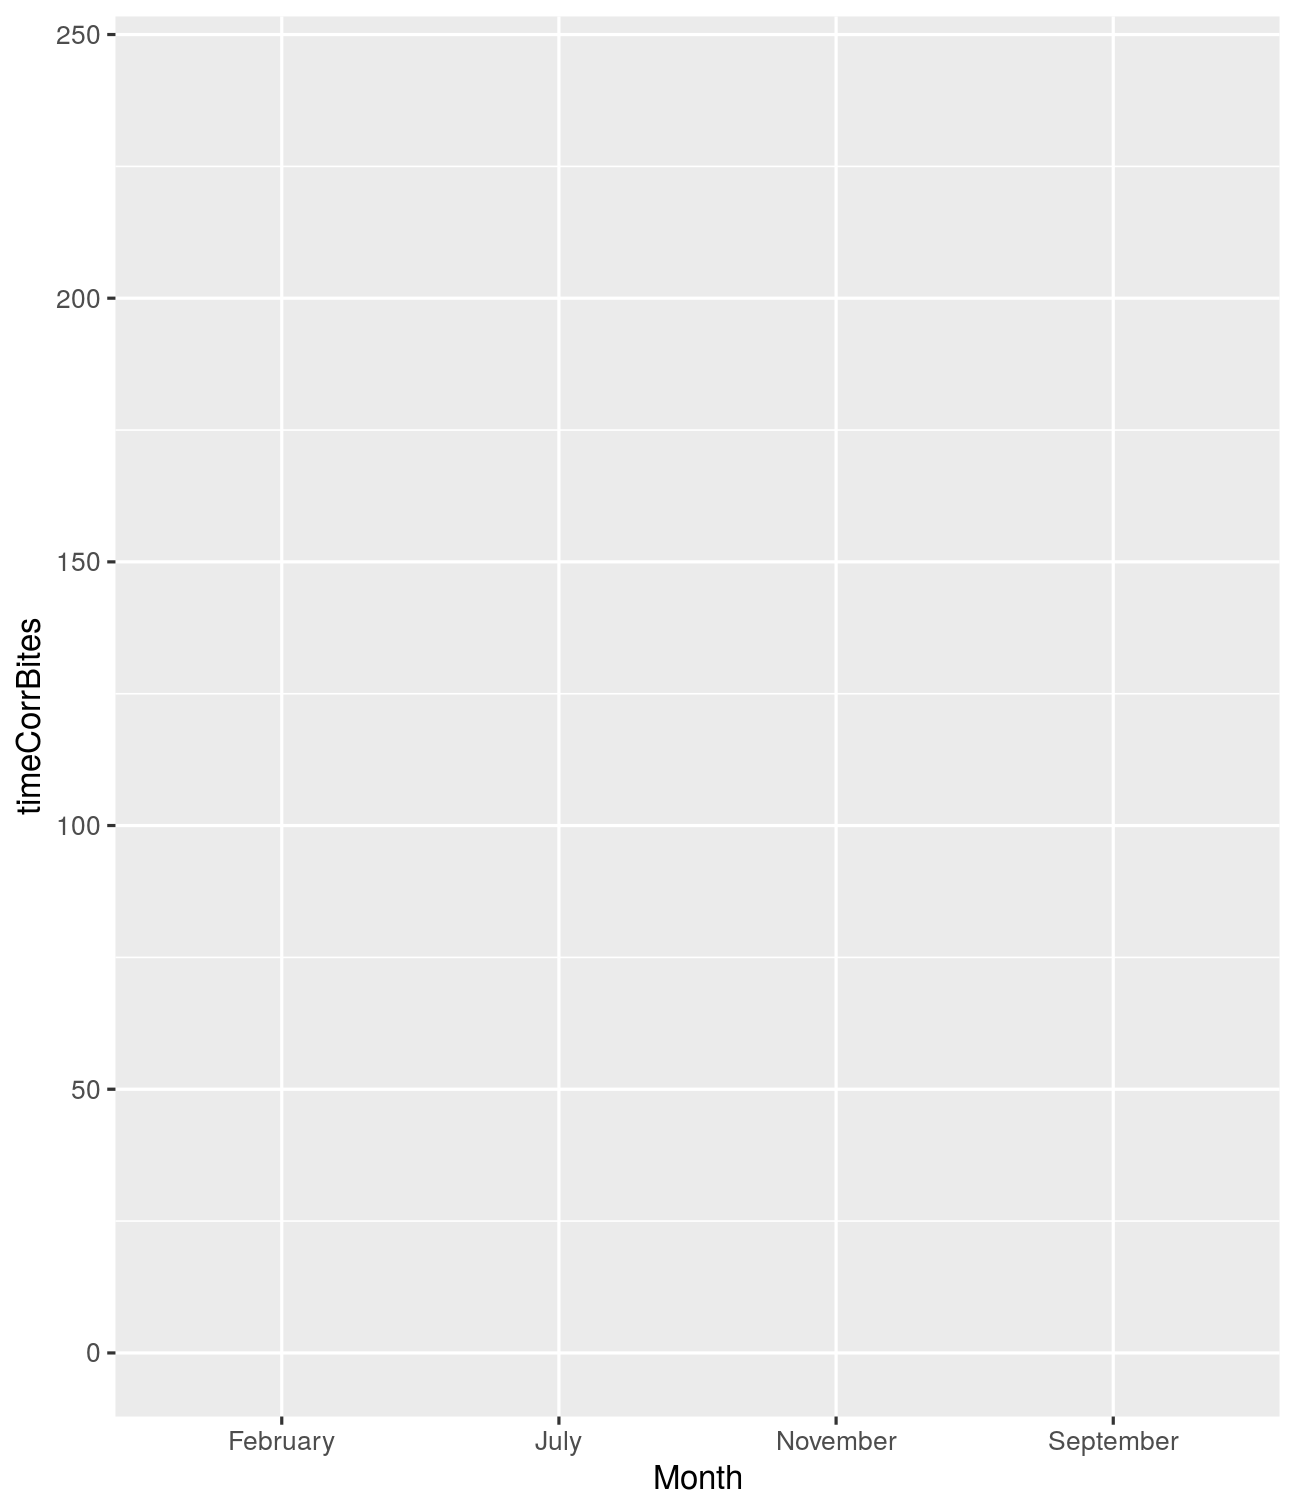
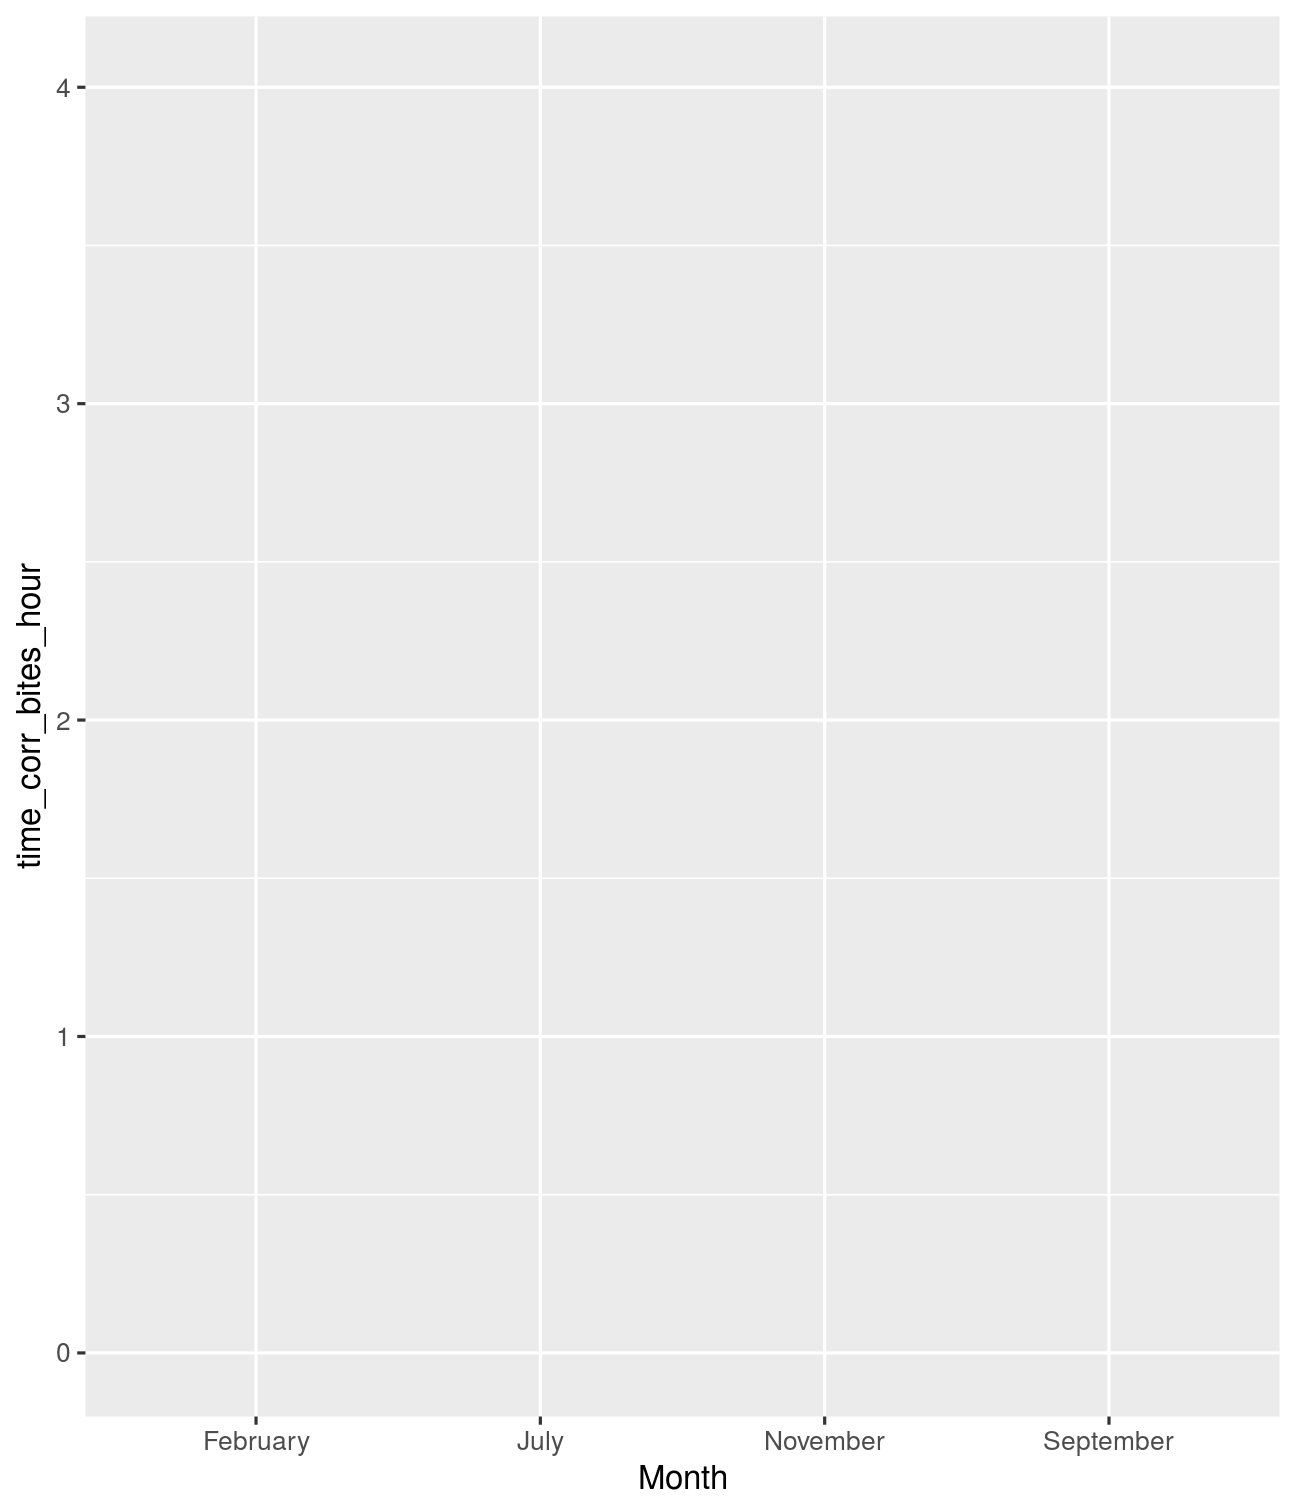
Edited Final Flipbook/ needed to change to hours

diff --git a/greene_madeline/exclusion_flipbook.html b/greene_madeline/exclusion_flipbook.html
@@ -46,21 +46,24 @@ head(data_plot_bites)
 ## get it in plotable form
 data_plot_bites %&gt;%
   filter(treatment %in% c("Control", "External")) %&gt;%
-  select(treatment,family, Month, Year, timeCorrBites) -&gt; plot_bites_flipbook
+  #only need these two treatments
+  mutate(time_corr_bites_hour = (timeCorrBites/60))%&gt;%
+  #need it out of an hour not minutes
+  select(treatment,family, Month, Year, time_corr_bites_hour) -&gt; plot_bites_flipbook
 
 head(plot_bites_flipbook)
 ```
 
 ```
 # A tibble: 6 x 5
-  treatment family       Month      Year timeCorrBites
-  &lt;chr&gt;     &lt;chr&gt;        &lt;chr&gt;     &lt;dbl&gt;         &lt;dbl&gt;
-1 Control   Acanthuridae September  2013           159
-2 External  Acanthuridae September  2013           151
-3 Control   Scaridae     September  2013            20
-4 External  Scaridae     September  2013            25
-5 Control   Acanthuridae September  2013            19
-6 External  Acanthuridae September  2013             0
+  treatment family       Month      Year time_corr_bites_hour
+  &lt;chr&gt;     &lt;chr&gt;        &lt;chr&gt;     &lt;dbl&gt;                &lt;dbl&gt;
+1 Control   Acanthuridae September  2013                2.65 
+2 External  Acanthuridae September  2013                2.52 
+3 Control   Scaridae     September  2013                0.333
+4 External  Scaridae     September  2013                0.417
+5 Control   Acanthuridae September  2013                0.317
+6 External  Acanthuridae September  2013                0    
 ```
 
 
@@ -74,7 +77,7 @@ count: false
 .column[.content[
 
 ```r
-* ggplot(plot_bites_flipbook, aes(x = Month, y= timeCorrBites))
+* ggplot(plot_bites_flipbook, aes(x = Month, y= time_corr_bites_hour))
 ```
 ]]
 .column[.content[
@@ -89,9 +92,9 @@ count: false
 .column[.content[
 
 ```r
-  ggplot(plot_bites_flipbook, aes(x = Month, y= timeCorrBites)) +  
+  ggplot(plot_bites_flipbook, aes(x = Month, y= time_corr_bites_hour)) +  
 #viewing change of bites per month
-* labs(y = "Bites Per Minute")
+* labs(y = "Bites Per Hour")
 ```
 ]]
 .column[.content[
@@ -106,9 +109,9 @@ count: false
 .column[.content[
 
 ```r
-  ggplot(plot_bites_flipbook, aes(x = Month, y= timeCorrBites)) +  
+  ggplot(plot_bites_flipbook, aes(x = Month, y= time_corr_bites_hour)) +  
 #viewing change of bites per month
-  labs(y = "Bites Per Minute") +  
+  labs(y = "Bites Per Hour") +  
 #changed y-axis title
 * labs(color = "Treatment")
 ```
@@ -125,9 +128,9 @@ count: false
 .column[.content[
 
 ```r
-  ggplot(plot_bites_flipbook, aes(x = Month, y= timeCorrBites)) +  
+  ggplot(plot_bites_flipbook, aes(x = Month, y= time_corr_bites_hour)) +  
 #viewing change of bites per month
-  labs(y = "Bites Per Minute") +  
+  labs(y = "Bites Per Hour") +  
 #changed y-axis title
   labs(color = "Treatment") +  
 #changed legend title
@@ -146,9 +149,9 @@ count: false
 .column[.content[
 
 ```r
-  ggplot(plot_bites_flipbook, aes(x = Month, y= timeCorrBites)) +  
+  ggplot(plot_bites_flipbook, aes(x = Month, y= time_corr_bites_hour)) +  
 #viewing change of bites per month
-  labs(y = "Bites Per Minute") +  
+  labs(y = "Bites Per Hour") +  
 #changed y-axis title
   labs(color = "Treatment") +  
 #changed legend title
@@ -168,9 +171,9 @@ count: false
 .column[.content[
 
 ```r
-  ggplot(plot_bites_flipbook, aes(x = Month, y= timeCorrBites)) +  
+  ggplot(plot_bites_flipbook, aes(x = Month, y= time_corr_bites_hour)) +  
 #viewing change of bites per month
-  labs(y = "Bites Per Minute") +  
+  labs(y = "Bites Per Hour") +  
 #changed y-axis title
   labs(color = "Treatment") +  
 #changed legend title
@@ -192,9 +195,9 @@ count: false
 .column[.content[
 
 ```r
-  ggplot(plot_bites_flipbook, aes(x = Month, y= timeCorrBites)) +  
+  ggplot(plot_bites_flipbook, aes(x = Month, y= time_corr_bites_hour)) +  
 #viewing change of bites per month
-  labs(y = "Bites Per Minute") +  
+  labs(y = "Bites Per Hour") +  
 #changed y-axis title
   labs(color = "Treatment") +  
 #changed legend title
@@ -218,9 +221,9 @@ count: false
 .column[.content[
 
 ```r
-  ggplot(plot_bites_flipbook, aes(x = Month, y= timeCorrBites)) +  
+  ggplot(plot_bites_flipbook, aes(x = Month, y= time_corr_bites_hour)) +  
 #viewing change of bites per month
-  labs(y = "Bites Per Minute") +  
+  labs(y = "Bites Per Hour") +  
 #changed y-axis title
   labs(color = "Treatment") +  
 #changed legend title
@@ -246,9 +249,9 @@ count: false
 .column[.content[
 
 ```r
-  ggplot(plot_bites_flipbook, aes(x = Month, y= timeCorrBites)) +  
+  ggplot(plot_bites_flipbook, aes(x = Month, y= time_corr_bites_hour)) +  
 #viewing change of bites per month
-  labs(y = "Bites Per Minute") +  
+  labs(y = "Bites Per Hour") +  
 #changed y-axis title
   labs(color = "Treatment") +  
 #changed legend title
